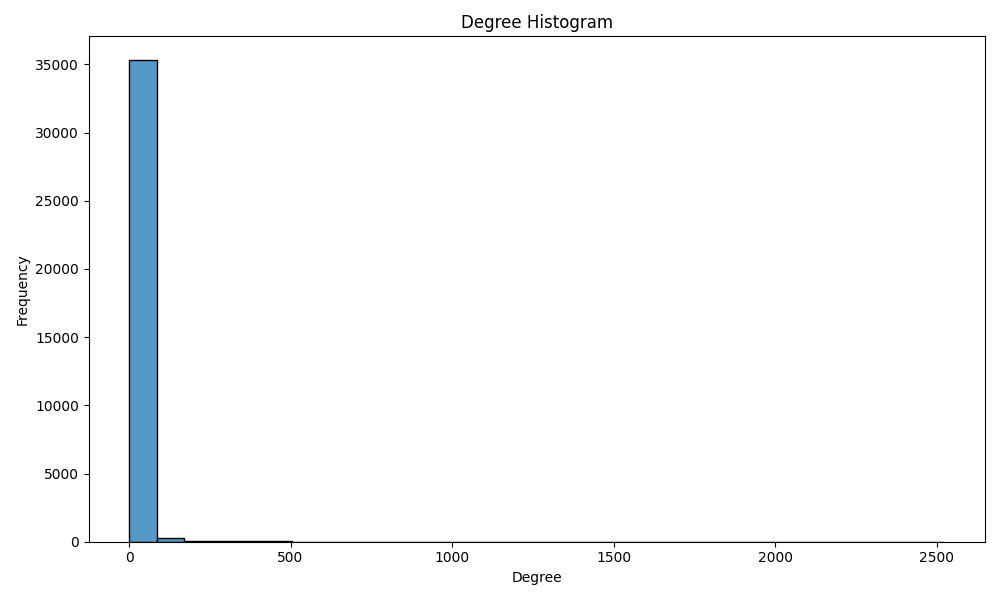
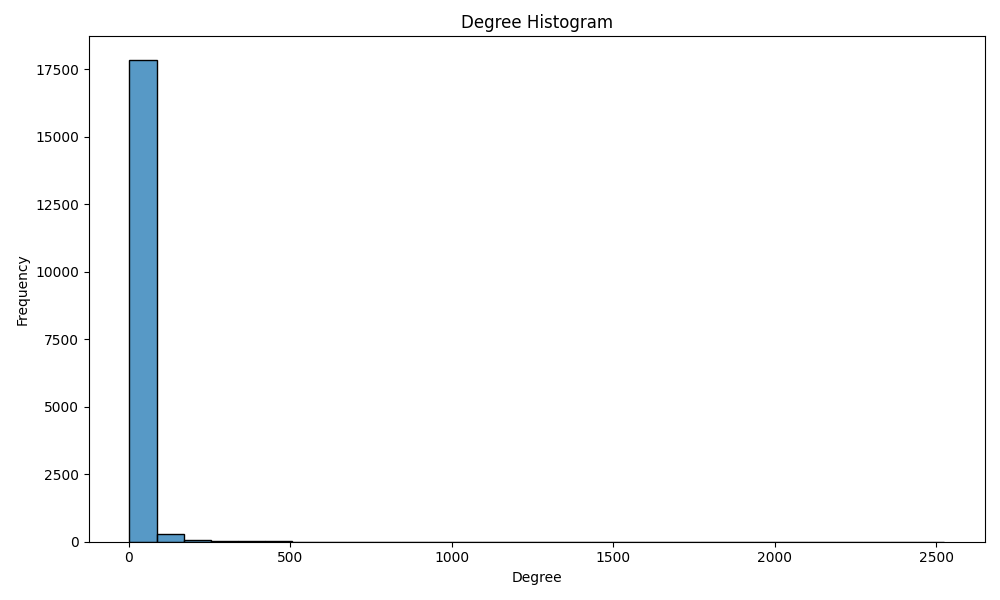
made readme and tried to redo histograms but not much diff so gonna try again

diff --git a/metrics.py b/metrics.py
@@ -17,15 +17,16 @@ with open("datasets/soc-redditHyperlinks-body.tsv") as file:
         G.add_node(line[1]) #dest subreddit
         G.add_edge(line[0], line[1], weight=line[4]) 
 
-'''
+
 # Metric Analysis on Individal nodes (subreddits)
 
 # Betweenness Centrality
 betweenness = nx.betweenness_centrality(G, normalized=True, endpoints=False)
+betweenness = {key: value for key, value in betweenness.items() if value != 0.0} #remove anything with a centrality of 0
 
 # Betweenness Centrality Histogram
 plt.figure(figsize=(10, 6))
-sns.histplot(list(betweenness.values()), kde=False, bins=30)
+sns.histplot(list(betweenness.values()), kde=False, bins=100)
 plt.title('Betweenness Centrality Histogram')
 plt.xlabel('Betweenness Centrality')
 plt.ylabel('Frequency')
@@ -43,10 +44,11 @@ betweenness_df_sorted.tail(100).to_csv('node_metrics_csvs/smallest_betweenness.c
 
 # Degree Centrality
 degree = dict(G.degree())  # In-degree + Out-degree
+degree = {key: value for key, value in degree.items() if value != 1} #remove anything with a degree of 1
 
 # Degree Histogram
 plt.figure(figsize=(10, 6))
-sns.histplot(list(degree.values()), kde=False, bins=30)
+sns.histplot(list(degree.values()), kde=False, bins=100)
 plt.title('Degree Histogram')
 plt.xlabel('Degree')
 plt.ylabel('Frequency')
@@ -60,6 +62,7 @@ degree_df_sorted = degree_df.sort_values(by='Degree', ascending=False)
 degree_df_sorted.head(100).to_csv('node_metrics_csvs/largest_degree.csv', index=False)
 degree_df_sorted.tail(100).to_csv('node_metrics_csvs/smallest_degree.csv', index=False)
 
+'''
 
 
 # Clustering Coefficient
@@ -81,7 +84,6 @@ clustering_df_sorted = clustering_df.sort_values(by='Clustering Coefficient', as
 clustering_df_sorted.head(100).to_csv('node_metrics_csvs/largest_clustering_coefficient.csv', index=False)
 clustering_df_sorted.tail(100).to_csv('node_metrics_csvs/smallest_clustering_coefficient.csv', index=False)
 
-'''
 
 # Harmonic Centrality
 harmonics = harmonic_centrality(G)
@@ -123,7 +125,7 @@ pagerank_df_sorted.head(100).to_csv('node_metrics_csvs/largest_pagerank.csv', in
 pagerank_df_sorted.tail(100).to_csv('node_metrics_csvs/smallest_pagerank.csv', index=False)
 
 
-'''
+
 
 # Metric Analysis on communities
 
@@ -389,5 +391,4 @@ with open('community_metrics_csvs/node_connectivity.csv', mode='w', newline='') 
     writer.writerow(["Community", "Node Connectivity"])
     for comm, conn in top_100_node_connectivities:
         writer.writerow([comm, conn])
-
 '''

diff --git a/README.md b/README.md
@@ -1,2 +1,23 @@
 # reddit_hyperlink
-Network Project
+Network In the Real World Project
+
+Purpose: Research shows that subreddits influence each other's popularity through community and hyperlink interactions. This project analyzes the dynamics that make subreddits influential by exploring community structures, sentiment, post properties and growth patterns. Our team uses network metrics like degree centrality, clustering coefficient, logistic regression, and “epidemic” simulations to identify key trends, such as the “rich getting richer” phenomena, where popular subreddits amplify their reach by reposting content from other large subreddits. Community detection also reveals how specific clusters can contribute to visibility, and how for certain content to go viral, it must bridge multiple communities. Sentiment analysis depicts that positive sentiment drives more growth and influence than negative sentiment. Additionally, in-degree centrality, where one subreddit is hyperlinked by another, increases “popularity” more than out-degree. By identifying these factors, our project provides insights into strategies that can help subreddits and its respective content gain virality. 
+
+Run "pip install requirements.txt" to install all necessary python libraries
+
+Python files:
+- detect_community.py: performs a community detection algorithm and creates a CSV with communities
+- ExpectedIncrease.py: runs an algorithm to find how much of an influence getting hyperlinked by a hub can affect a niche subreddit
+- find_high_comm.py: goes through the community_metrics CSVs and prints which communities appear at the top of the most metrics
+- influential_nodes.py: takes in the resulting CSV of detect_community.py and extracts the top nodes of each community
+- metrics.py: finds the top and bottom 10 nodes/commmunities for each metric then makes a histogram for each metric
+- post_properties.py: performs logistic regression to determine which post properties have the most influence on a post being popular
+- reddit.py: finds metrics like giant component and average degree of the graphs as a whole and makes degree distribution plots
+
+Results directories
+- community_datasets: CSVs that show which subreddit is in which community that were created in detect_comunity.py
+- community_metrics_csvs: CSVs that show the top and bottom 10 communities for each metric that were created in metric.py
+- datasets (might not be in the repository since it is too large to add to github): original datasets downloaded from https://snap.stanford.edu/data/soc-RedditHyperlinks.html
+- histograms: histograms saved in metrics.py of the distribution of each node metric and community metric
+- node_metrics_csvs: SVs that show the top and bottom 10 nodes for each metric that were created in metric.py
+- post_properties_results: histograms of post property distributions and bar plot of the influence of each post proeprty generated in post_properties.py
